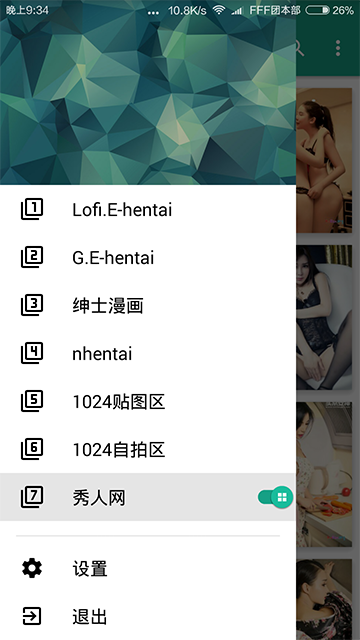
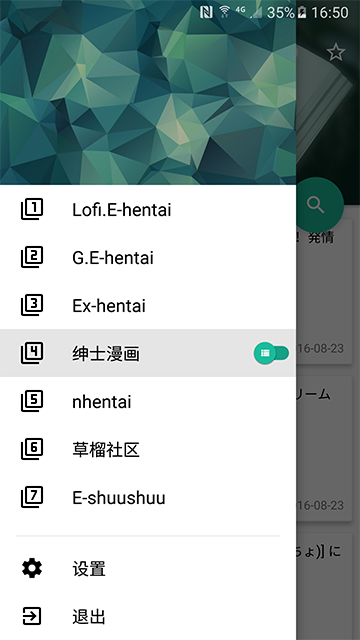
no searchUrl supported

diff --git a/app/src/main/java/ml/puredark/hviewer/activities/MainActivity.java b/app/src/main/java/ml/puredark/hviewer/activities/MainActivity.java
@@ -23,6 +23,7 @@ import android.widget.ImageView;
 import android.widget.LinearLayout;
 
 import com.github.glomadrian.materialanimatedswitch.MaterialAnimatedSwitch;
+import com.google.gson.Gson;
 import com.miguelcatalan.materialsearchview.MaterialSearchView;
 
 import java.util.ArrayList;
@@ -49,6 +50,7 @@ import ml.puredark.hviewer.fragments.CollectionFragment;
 import ml.puredark.hviewer.fragments.MyFragment;
 import ml.puredark.hviewer.helpers.MDStatusBarCompat;
 import ml.puredark.hviewer.holders.DownloadTaskHolder;
+import ml.puredark.hviewer.utils.SimpleFileUtil;
 
 import static ml.puredark.hviewer.HViewerApplication.siteHolder;
 import static ml.puredark.hviewer.HViewerApplication.temp;
@@ -292,7 +294,7 @@ public class MainActivity extends AnimationActivity {
                 "http://www.wnacg.org/photos-index-page-{page:1}-aid-{idCode:}.html",
                 "http://www.wnacg.org/albums-index-page-{page:1}-sname-{keyword:}.html",
                 "http://www.wnacg.com/users-login.html",
-                indexRule, galleryRule, null, pic, null));
+                indexRule, galleryRule, null, pic, Site.FLAG_NO_RATING+"|"+Site.FLAG_NO_TAG));
         categories = new ArrayList<>();
         categories.add(new Category(1, "首页", "http://www.wnacg.org/albums-index-page-{page:1}.html"));
         categories.add(new Category(2, "同人志", "http://www.wnacg.com/albums-index-page-{page:1}-cate-5.html"));
@@ -329,7 +331,7 @@ public class MainActivity extends AnimationActivity {
                 "https://nhentai.net{idCode:}",
                 "https://nhentai.net/search/?q={keyword:}&page={page:1}",
                 "https://nhentai.net/login/",
-                indexRule, galleryRule, null, pic, null));
+                indexRule, galleryRule, null, pic, Site.FLAG_NO_RATING+"|"+Site.FLAG_NO_TAG));
 
         indexRule = new Rule();
         indexRule.item = new Selector("#ajaxtable tr.tr3.t_one:gt(10)", null, null, null, null);
@@ -348,7 +350,7 @@ public class MainActivity extends AnimationActivity {
         sites.add(new Site(6, "草榴社区",
                 "http://cl.deocool.pw/thread0806.php?fid=8&page={page:1}",
                 "http://cl.deocool.pw/htm_data/{idCode:}.html",
-                "http://cl.deocool.pw/thread0806.php?fid=8&page={page:1}",
+                null,
                 "http://cl.deocool.pw/login.php",
                 indexRule, galleryRule, null, null, Site.FLAG_NO_COVER+"|"+Site.FLAG_NO_RATING+"|"+Site.FLAG_NO_TAG));
         categories = new ArrayList<>();
@@ -377,7 +379,7 @@ public class MainActivity extends AnimationActivity {
         sites.add(new Site(9, "E-shuushuu",
                 "http://e-shuushuu.net/?page={page:1}",
                 "http://e-shuushuu.net/{idCode:}",
-                "http://e-shuushuu.net/?page={page:1}",
+                null,
                 "http://e-shuushuu.net/",
                 indexRule, galleryRule, null, null, null));
 
@@ -481,7 +483,7 @@ public class MainActivity extends AnimationActivity {
             selectSite(CollectionFragment.newInstance(site), site);
         }
 
-//        SimpleFileUtil.writeString("/sdcard/sites.txt", new Gson().toJson(sites), "utf-8");
+        SimpleFileUtil.writeString("/sdcard/sites.txt", new Gson().toJson(sites), "utf-8");
 
         HViewerApplication.checkUpdate(this);
 

diff --git a/app/src/main/java/ml/puredark/hviewer/helpers/SitePropViewHolder.java b/app/src/main/java/ml/puredark/hviewer/helpers/SitePropViewHolder.java
@@ -39,6 +39,8 @@ public class SitePropViewHolder {
     MaterialEditText inputGalleryUrl;
     @BindView(R.id.input_searchUrl)
     MaterialEditText inputSearchUrl;
+    @BindView(R.id.input_loginUrl)
+    MaterialEditText inputLoginUrl;
     @BindView(R.id.input_flag)
     MaterialEditText inputFlag;
     @BindView(R.id.input_cookie)
@@ -358,6 +360,7 @@ public class SitePropViewHolder {
         inputIndexUrl.setText(site.indexUrl);
         inputGalleryUrl.setText(site.galleryUrl);
         inputSearchUrl.setText(site.searchUrl);
+        inputLoginUrl.setText(site.loginUrl);
         inputCookie.setText(site.cookie);
         inputFlag.setText(site.flag);
 
@@ -552,6 +555,7 @@ public class SitePropViewHolder {
         site.indexUrl = loadString(inputIndexUrl);
         site.galleryUrl = loadString(inputGalleryUrl);
         site.searchUrl = loadString(inputSearchUrl);
+        site.loginUrl = loadString(inputLoginUrl);
         site.cookie = loadString(inputCookie);
         site.flag = loadString(inputFlag);
 
@@ -622,7 +626,7 @@ public class SitePropViewHolder {
         site.galleryRule.pictureUrl = loadSelector(inputGalleryRulePictureUrlSelector, inputGalleryRulePictureUrlRegex, inputGalleryRulePictureUrlReplacement);
         site.galleryRule.pictureThumbnail = loadSelector(inputGalleryRulePictureThumbnailSelector, inputGalleryRulePictureThumbnailRegex, inputGalleryRulePictureThumbnailReplacement);
 
-        if (site.indexUrl == null || site.galleryUrl == null || site.searchUrl == null ||
+        if (site.indexUrl == null || site.galleryUrl == null ||
                 site.indexRule.item == null || site.indexRule.idCode == null ||
                 site.galleryRule.item == null || site.galleryRule.pictureUrl == null)
             return null;

diff --git a/app/src/main/java/ml/puredark/hviewer/fragments/CollectionFragment.java b/app/src/main/java/ml/puredark/hviewer/fragments/CollectionFragment.java
@@ -210,6 +210,12 @@ public class CollectionFragment extends MyFragment {
 
     @Override
     public void onSearch(String keyword) {
+        if(site==null || site.searchUrl == null || "".equals(site.searchUrl)){
+            AnimationActivity activity = (AnimationActivity) getActivity();
+            if (activity != null)
+                activity.showSnackBar("该站点不支持搜索");
+            return;
+        }
         try {
             keyword = URLEncoder.encode(keyword, "utf-8");
         } catch (UnsupportedEncodingException e) {
